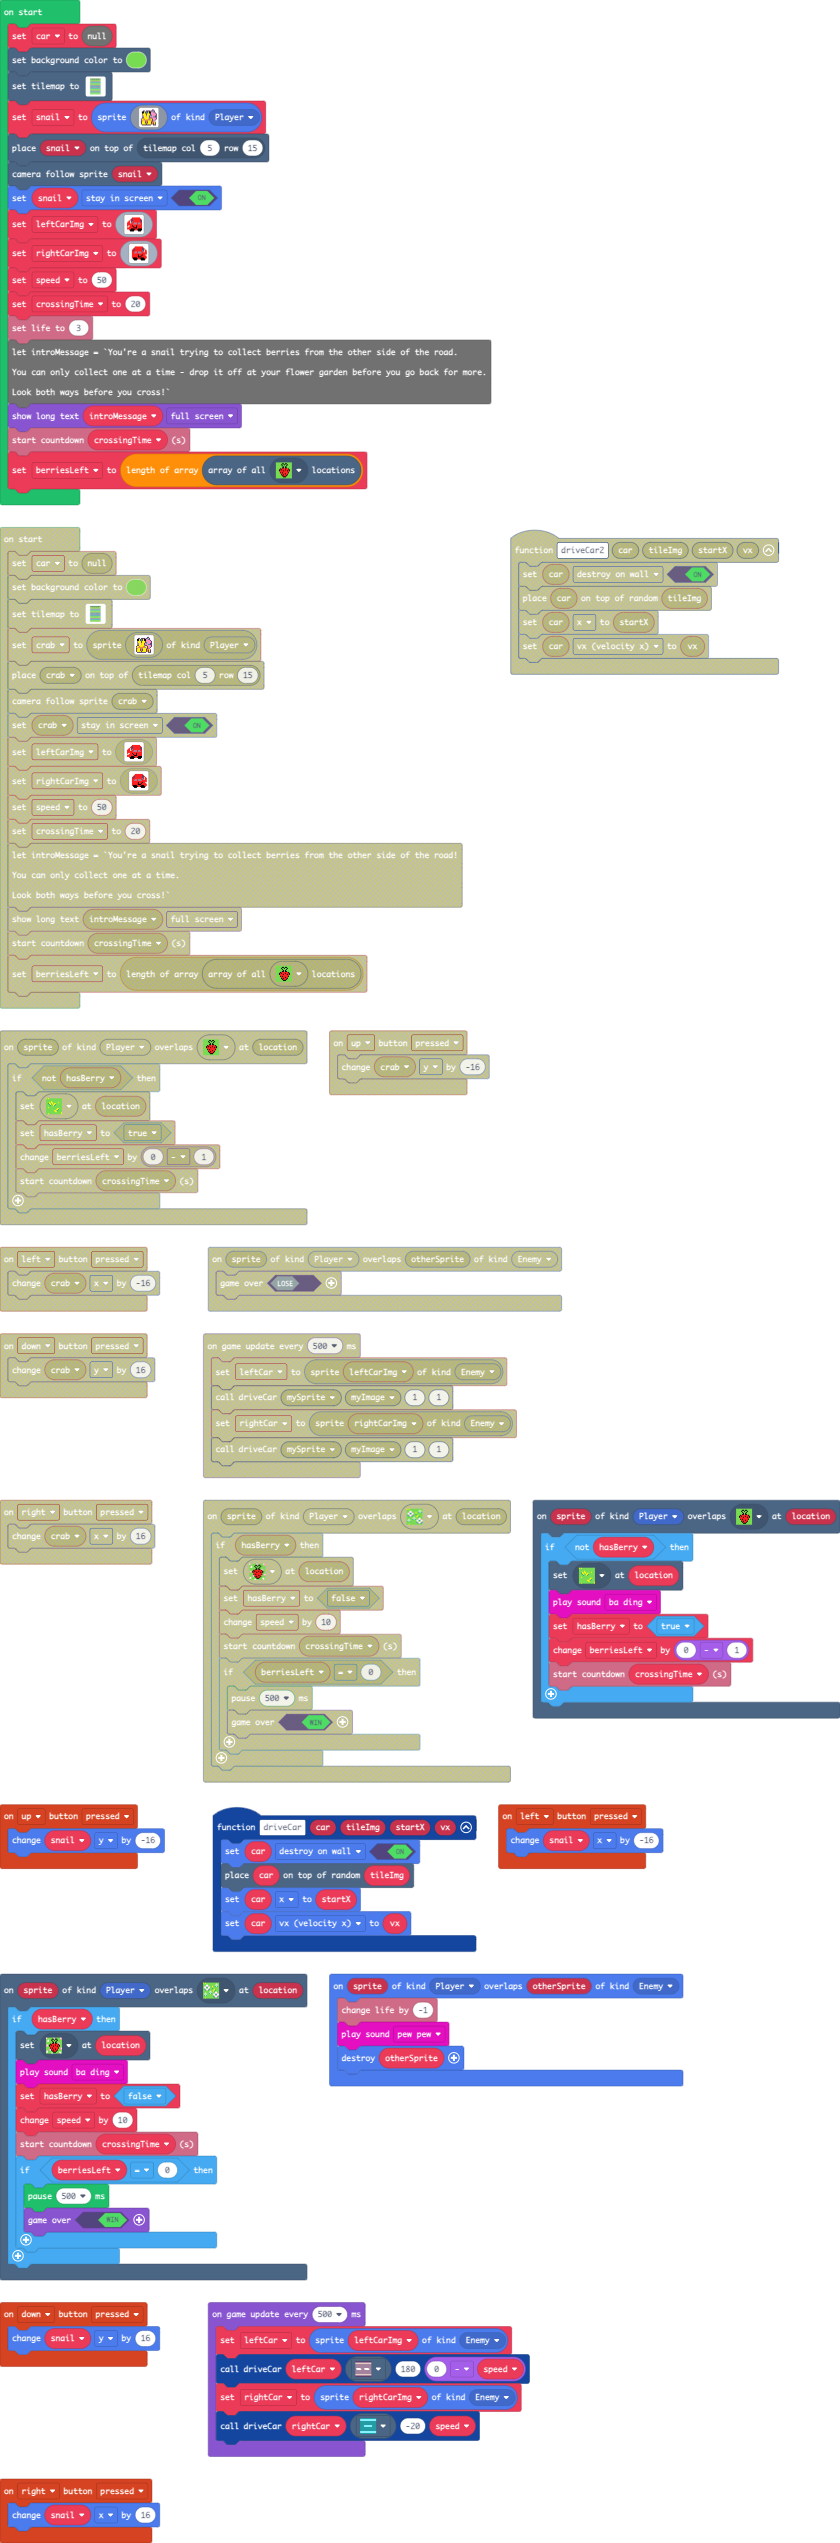
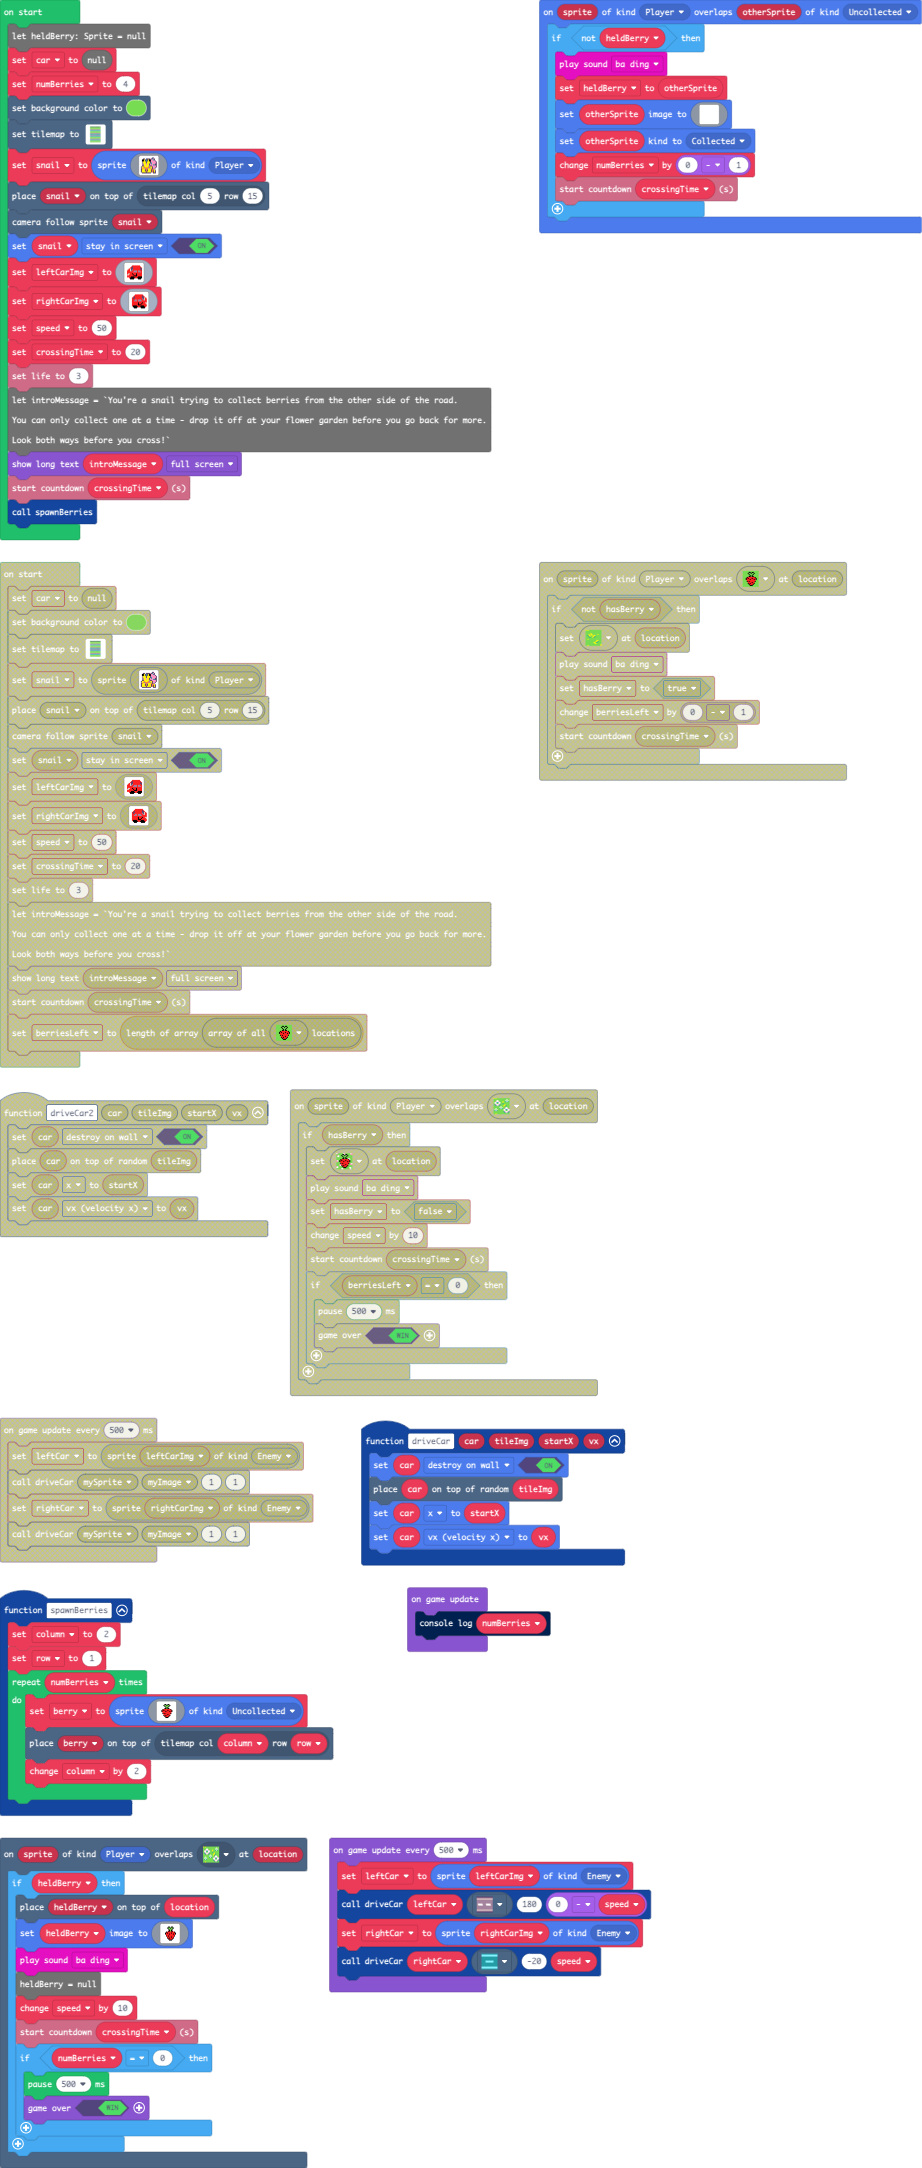
Update pxt.json, main.blocks, main.ts, tilemap.g.jres, tilemap.g.ts

diff --git a/main.ts b/main.ts
@@ -1,12 +1,7 @@
-scene.onOverlapTile(SpriteKind.Player, myTiles.tile3, function (sprite, location) {
-    if (!(hasBerry)) {
-        tiles.setTileAt(location, sprites.castle.tileGrass3)
-        music.baDing.play()
-        hasBerry = true
-        berriesLeft += 0 - 1
-        info.startCountdown(crossingTime)
-    }
-})
+namespace SpriteKind {
+    export const Uncollected = SpriteKind.create()
+    export const Collected = SpriteKind.create()
+}
 controller.up.onEvent(ControllerButtonEvent.Pressed, function () {
     snail.y += -16
 })
@@ -22,14 +17,59 @@ controller.left.onEvent(ControllerButtonEvent.Pressed, function () {
 controller.right.onEvent(ControllerButtonEvent.Pressed, function () {
     snail.x += 16
 })
+sprites.onOverlap(SpriteKind.Player, SpriteKind.Uncollected, function (sprite, otherSprite) {
+    if (!(heldBerry)) {
+        music.baDing.play()
+        heldBerry = otherSprite
+        otherSprite.setImage(img`
+            . . . . . . . . . . . . . . . . 
+            . . . . . . . . . . . . . . . . 
+            . . . . . . . . . . . . . . . . 
+            . . . . . . . . . . . . . . . . 
+            . . . . . . . . . . . . . . . . 
+            . . . . . . . . . . . . . . . . 
+            . . . . . . . . . . . . . . . . 
+            . . . . . . . . . . . . . . . . 
+            . . . . . . . . . . . . . . . . 
+            . . . . . . . . . . . . . . . . 
+            . . . . . . . . . . . . . . . . 
+            . . . . . . . . . . . . . . . . 
+            . . . . . . . . . . . . . . . . 
+            . . . . . . . . . . . . . . . . 
+            . . . . . . . . . . . . . . . . 
+            . . . . . . . . . . . . . . . . 
+            `)
+        otherSprite.setKind(SpriteKind.Collected)
+        berriesLeft += 0 - 1
+        info.startCountdown(crossingTime)
+    }
+})
 controller.down.onEvent(ControllerButtonEvent.Pressed, function () {
     snail.y += 16
 })
 scene.onOverlapTile(SpriteKind.Player, sprites.castle.tileGrass2, function (sprite, location) {
-    if (hasBerry) {
-        tiles.setTileAt(location, myTiles.tile5)
+    if (heldBerry) {
+        tiles.placeOnTile(heldBerry, location)
+        heldBerry.setImage(img`
+            . . . . . . . . . . . . . . . . 
+            . . . . . . f f . f f . . . . . 
+            . . . . . f 7 7 f 7 7 f . . . . 
+            . . . . . . f 7 7 7 f . . . . . 
+            . . . . . . . f 7 f . . . . . . 
+            . . . . . . f f 7 f f . . . . . 
+            . . . . f 2 2 2 2 2 2 2 f . . . 
+            . . . f 2 f 2 2 2 f 2 2 2 f . . 
+            . . . f 2 2 2 f 2 2 2 f 2 f . . 
+            . . . . 2 2 2 2 2 2 2 2 2 . . . 
+            . . . . f 2 f 2 2 2 2 2 f . . . 
+            . . . . . 2 2 2 2 f 2 2 . . . . 
+            . . . . . f 2 f 2 2 2 f . . . . 
+            . . . . . . f 2 2 2 f . . . . . 
+            . . . . . . . f f f . . . . . . 
+            . . . . . . . . . . . . . . . . 
+            `)
         music.baDing.play()
-        hasBerry = false
+        heldBerry = null
         speed += 10
         info.startCountdown(crossingTime)
         if (berriesLeft == 0) {
@@ -38,6 +78,32 @@ scene.onOverlapTile(SpriteKind.Player, sprites.castle.tileGrass2, function (spri
         }
     }
 })
+
+function spawnBerries(numBerries: number, startColumn: number, startRow: number, gap: number) {
+    for (let index = 0; index < numBerries; index++) {
+        berry = sprites.create(img`
+            . . . . . . . . . . . . . . . . 
+            . . . . . . f f . f f . . . . . 
+            . . . . . f 7 7 f 7 7 f . . . . 
+            . . . . . . f 7 7 7 f . . . . . 
+            . . . . . . . f 7 f . . . . . . 
+            . . . . . . f f 7 f f . . . . . 
+            . . . . f 2 2 2 2 2 2 2 f . . . 
+            . . . f 2 f 2 2 2 f 2 2 2 f . . 
+            . . . f 2 2 2 f 2 2 2 f 2 f . . 
+            . . . . 2 2 2 2 2 2 2 2 2 . . . 
+            . . . . f 2 f 2 2 2 2 2 f . . . 
+            . . . . . 2 2 2 2 f 2 2 . . . . 
+            . . . . . f 2 f 2 2 2 f . . . . 
+            . . . . . . f 2 2 2 f . . . . . 
+            . . . . . . . f f f . . . . . . 
+            . . . . . . . . . . . . . . . . 
+            `, SpriteKind.Uncollected)
+        berry.z = -1
+        tiles.placeOnTile(berry, tiles.getTileLocation(startColumn, startRow))
+        startColumn += 1 + gap
+    }
+}
 sprites.onOverlap(SpriteKind.Player, SpriteKind.Enemy, function (sprite, otherSprite) {
     info.changeLifeBy(-1)
     music.pewPew.play()
@@ -45,10 +111,13 @@ sprites.onOverlap(SpriteKind.Player, SpriteKind.Enemy, function (sprite, otherSp
 })
 let rightCar: Sprite = null
 let leftCar: Sprite = null
-let hasBerry = false
-let berriesLeft = 0
+let berry: Sprite = null
+let row = 0
+let column = 0
 let crossingTime = 0
 let snail: Sprite = null
+let berriesLeft = 4
+let heldBerry: Sprite = null
 let car = null
 scene.setBackgroundColor(7)
 tiles.setTilemap(tilemap`level`)
@@ -117,7 +186,8 @@ You can only collect one at a time - drop it off at your flower garden before yo
 Look both ways before you cross!`
 game.showLongText(introMessage, DialogLayout.Full)
 info.startCountdown(crossingTime)
-berriesLeft = tiles.getTilesByType(myTiles.tile3).length
+spawnBerries(berriesLeft, 2, 1, 1)
+
 game.onUpdateInterval(500, function () {
     leftCar = sprites.create(leftCarImg, SpriteKind.Enemy)
     driveCar(leftCar, sprites.vehicle.roadHorizontal, 180, 0 - speed)

diff --git a/tilemap.g.ts b/tilemap.g.ts
@@ -13,7 +13,7 @@ namespace myTiles {
 
     helpers.registerTilemapFactory(function(name: string) {
         switch(helpers.stringTrim(name)) {
[2 lines of base64/hex data omitted]
 . . . . . . . . . . . 
 . . . . . . . . . . . 
 . . . . . . . . . . . 
